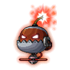
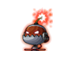
mos框新增、 部分mos圖新增 還缺濃姬系列、所有boss小圖、殘暴炎魔手臂

diff --git a/Boss資訊sys/css/main.scss b/Boss資訊sys/css/main.scss
@@ -582,17 +582,43 @@ body,html{
                 border: 1px solid #FFF;
                 background: linear-gradient(135deg, #6d6d6d 0%, #2f2f2f 15%);
                 padding: 0.5rem 0;
+                .mosFrame{
+                    height: 140px;
+                    // border: 1px solid #F00;
+                    background-image: url(../img/mos/frame.png);
+                    background-size: 120px;
+                    background-position: 50% 50%;
+                    background-repeat: no-repeat;
+                    transform: scale(1.3);
+                    position: relative;
+                    .Frametxt{
+                        position: absolute;
+                        left: 50%;
+                        top: 82%;
+                        transform: scale(1) translate(-50%,-82%);
+                        font-size: 9px;
+                    }
+                    .Frameimg{
+                        position: absolute;
+                        top: 50%;
+                        left: 50%;
+                        transform: translate(-50%,-50%) scale(1.3);
+                    }
+                }                
                 li{
                     display: inline-block;
                     width: 20%;
                     // border: 1px solid #F00;
+
                     img{
                         position: relative;
                         margin-top: 0.2rem;
                         margin-bottom: 0.5rem;
+                        
                     }
                     span{
                         display: block;
+                        // display: none;
                         font-size: 19px;
                         font-weight: bold;
                         margin-top: 3px;

diff --git a/Boss資訊sys/css/main.css b/Boss資訊sys/css/main.css
@@ -457,6 +457,28 @@ body::-webkit-scrollbar, html::-webkit-scrollbar {
   background: linear-gradient(135deg, #6d6d6d 0%, #2f2f2f 15%);
   padding: 0.5rem 0;
 }
+.bossContainer .bossData .moscontent .mosterinfo .mosFrame {
+  height: 140px;
+  background-image: url(../img/mos/frame.png);
+  background-size: 120px;
+  background-position: 50% 50%;
+  background-repeat: no-repeat;
+  transform: scale(1.3);
+  position: relative;
+}
+.bossContainer .bossData .moscontent .mosterinfo .mosFrame .Frametxt {
+  position: absolute;
+  left: 50%;
+  top: 82%;
+  transform: scale(1) translate(-50%, -82%);
+  font-size: 9px;
+}
+.bossContainer .bossData .moscontent .mosterinfo .mosFrame .Frameimg {
+  position: absolute;
+  top: 50%;
+  left: 50%;
+  transform: translate(-50%, -50%) scale(1.3);
+}
 .bossContainer .bossData .moscontent .mosterinfo li {
   display: inline-block;
   width: 20%;

diff --git a/Boss資訊sys/index.html b/Boss資訊sys/index.html
@@ -223,9 +223,9 @@
                         v-for="list in mosDataShow"
                         :key="list.alt"
                         >
-                            <li>
-                                <img :src="list.url" :alt="list.alt">
-                                <span>{{list.alt}}</span>
+                            <li class="mosFrame">
+                                <img class="Frameimg"  :src="list.url" :alt="list.alt">
+                                <span class="Frametxt">{{list.alt}}</span>
                             </li>
                             <li><span>LV.{{list.mosLv}}</span></li>
                             <li><span>{{list.mosDefense}}</span></li>
